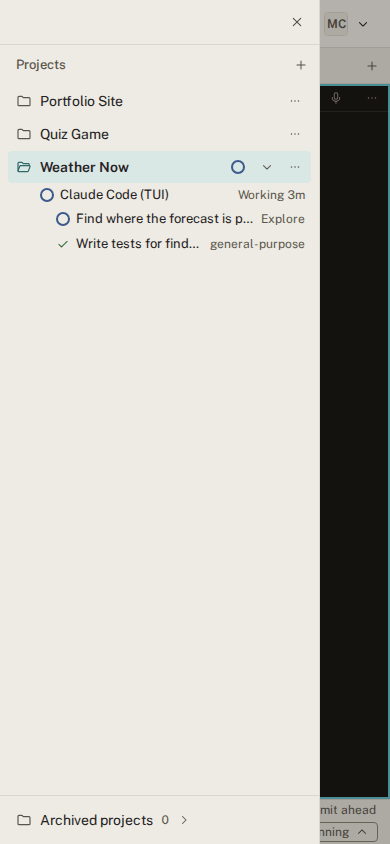
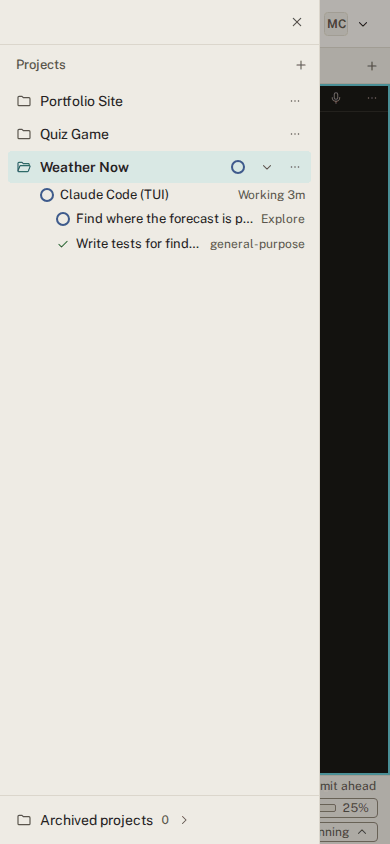
Seed realistic workspace figures and the Instructor role; lint the capture
Workspaces get real disk, memory and image figures, stopped workspaces
stay stopped, and the instructor has the Instructor role. Now that the
capture is no longer ignored, biome formats it and knip lists its entry
points and the convert binary.

Changed region(s): [[0.8, 0.8934, 1.0, 0.9858]]

diff --git a/e2e/doc-images/seed.ts b/e2e/doc-images/seed.ts
@@ -16,8 +16,8 @@ import {
 	FAKE_AGENT_TOKEN,
 	query,
 	seedFile,
-	seedListening,
 	seedGit,
+	seedListening,
 	type TestProject,
 	terminalIds,
 	workspacePath,
@@ -25,6 +25,7 @@ import {
 } from "../helpers";
 import { FAKE_AGENT_URL } from "../ports";
 
+const GIB = 1024 ** 3;
 const IMAGES = join(import.meta.dirname, "../../docs/images");
 const RAW = join(tmpdir(), "portikus-screenshots");
 mkdirSync(RAW, { recursive: true });
@@ -61,7 +62,8 @@ async function post(path: string, body: unknown): Promise<void> {
 		headers: { "content-type": "application/json" },
 		body: JSON.stringify(body),
 	});
-	if (!response.ok) throw new Error(`the fake agent refused ${path}: ${response.status}`);
+	if (!response.ok)
+		throw new Error(`the fake agent refused ${path}: ${response.status}`);
 }
 
 export interface Person {
@@ -75,7 +77,7 @@ export async function person(
 	name: string,
 	username: string,
 	options: {
-		role?: "student" | "administrator";
+		role?: "student" | "instructor" | "administrator";
 		context?: BrowserContext;
 		state?: string;
 	} = {},
@@ -90,7 +92,7 @@ export async function person(
 			name,
 			options.role ?? "student",
 			// A believable last sign-in, between one hour and two days ago.
-			60 + (username.length * 397) % 2800,
+			60 + ((username.length * 397) % 2800),
 		],
 	);
 	if (!user) throw new Error("could not create the user");
@@ -98,14 +100,15 @@ export async function person(
 	// Labels are unique, so the same person made again gets a number.
 	// Labels are unique: an earlier shot's workspace gives its label up.
 	const label = `ws-${username}`;
-	await query("update workspaces set label = 'ws-old-' || left(id::text, 8) where label = $1", [
-		label,
-	]);
+	await query(
+		"update workspaces set label = 'ws-old-' || left(id::text, 8) where label = $1",
+		[label],
+	);
 	await query(
 		`insert into workspaces
 		   (id, owner_user_id, label, incus_instance_name, state, desired_state,
 		    agent_address, agent_token)
-		 values ($1, $2, $3, $4, $5, 'running', '127.0.0.1', $6)`,
+		 values ($1, $2, $3, $4, $5, $7, '127.0.0.1', $6)`,
 		[
 			workspaceId,
 			user.id,
@@ -113,8 +116,29 @@ export async function person(
 			`ws-${workspaceId.replace(/-/g, "").slice(0, 24)}`,
 			options.state ?? "running",
 			`${FAKE_AGENT_TOKEN}:${workspaceId}`,
+			// A stopped workspace is meant to stay stopped; otherwise it reads as starting.
+			options.state === "stopped" ? "stopped" : "running",
 		],
 	);
+	// Figures a live site would show: a few GiB of a 25 GiB home, an image version.
+	const spread = (username.length * 7919) % 100;
+	await query("update workspaces set image_version = '2026.11.1' where id = $1", [
+		workspaceId,
+	]);
+	await post("/__test/storage", {
+		key: workspaceId,
+		home: { usedBytes: Math.round((2.5 + spread / 20) * GIB), totalBytes: 25 * GIB },
+		docker: { usedBytes: Math.round((0.8 + spread / 40) * GIB), totalBytes: 20 * GIB },
+		recovery: {
+			usedBytes: Math.round((0.2 + spread / 200) * GIB),
+			totalBytes: 3 * GIB,
+		},
+	});
+	await post("/__test/memory", {
+		key: workspaceId,
+		usedBytes: Math.round((0.9 + spread / 60) * GIB),
+		totalBytes: 4 * GIB,
+	});
 	if (options.context) await addSession(options.context, user.id);
 	await controllerChecked();
 	return { userId: user.id, workspaceId, label };
@@ -244,7 +268,7 @@ const INDEX_HTML = `<!doctype html>
 </html>
 `;
 
-export const CHECKS = {
+const CHECKS = {
 	checks: [
 		{ id: "tests", name: "Tests", command: "pytest -q" },
 		{ id: "lint", name: "Lint", command: "ruff check ." },
@@ -400,7 +424,11 @@ export async function course(
 export async function flaskRunning(workspaceId: string): Promise<void> {
 	const commandLine = "python3 -m flask --app app run --host 0.0.0.0";
 	await seedListening(workspaceId, [
-		{ port: 5000, addresses: ["0.0.0.0"], process: { pid: 4242, command: "python3", commandLine } },
+		{
+			port: 5000,
+			addresses: ["0.0.0.0"],
+			process: { pid: 4242, command: "python3", commandLine },
+		},
 	]);
 	await post("/__test/processes", {
 		key: workspaceId,
@@ -444,9 +472,11 @@ th,td{padding:.5rem 1.25rem;text-align:left;border-bottom:1px solid #e3eaf0}th{b
 
 /** Answer every preview-host request with the weather app's page. */
 export async function servePreview(page: Page): Promise<void> {
-	await page.context().route(/\.preview\.localhost/, (route) =>
-		route.fulfill({ status: 200, contentType: "text/html", body: WEATHER_PAGE }),
-	);
+	await page
+		.context()
+		.route(/\.preview\.localhost/, (route) =>
+			route.fulfill({ status: 200, contentType: "text/html", body: WEATHER_PAGE }),
+		);
 }
 
 /** Give a project a saved layout before it opens. */

diff --git a/e2e/doc-images/admin.capture.ts b/e2e/doc-images/admin.capture.ts
@@ -43,7 +43,9 @@ let courseId = "";
 /** Carol signs in through the mock provider; her name is made to fit the demo. */
 async function asAdmin(page: Page, path: string) {
 	await loginAs(page, "carol");
-	await query("update users set display_name = 'Carol Whitfield' where email = 'carol@example.edu'");
+	await query(
+		"update users set display_name = 'Carol Whitfield' where email = 'carol@example.edu'",
+	);
 	await controllerChecked();
 	await page.goto(path);
 }
@@ -53,7 +55,7 @@ test.beforeAll(async () => {
 	for (const [name, username, state] of CLASS) {
 		people.push(await person(name, username, { state }));
 	}
-	instructor = await person("Dr. Ivy Okafor", "okafor");
+	instructor = await person("Dr. Ivy Okafor", "okafor", { role: "instructor" });
 	courseId = await course(
 		"CS 1210: Programming for the Web",
 		instructor.userId,
@@ -80,7 +82,10 @@ test.beforeAll(async () => {
 test("users and the intro toggletip", async ({ page }) => {
 	await asAdmin(page, "/admin");
 	await expect(page.getByTestId("admin-accounts")).toBeVisible({ timeout: 15_000 });
-	await page.getByRole("button", { name: /^About Image/ }).first().click();
+	await page
+		.getByRole("button", { name: /^About Image/ })
+		.first()
+		.click();
 	await expect(page.locator(".pk-toggletip-content[data-state='open']")).toBeVisible();
 	await shoot(page, "admin-intro-toggletip.png", {
 		clip: { x: 0, y: 40, width: 1000, height: 300 },
@@ -120,7 +125,10 @@ test("health", async ({ page }) => {
 						observedAt: new Date().toISOString(),
 						loadAverage: [0.6 + busy * 2, 0.5 + busy * 1.8, 0.4 + busy],
 						cpuCount: 8,
-						memory: { usedBytes: Math.round((9 + busy * 12) * GIB), totalBytes: 32 * GIB },
+						memory: {
+							usedBytes: Math.round((9 + busy * 12) * GIB),
+							totalBytes: 32 * GIB,
+						},
 						pool: {
 							name: "portikus",
 							usedBytes: Math.round((182 + hour * 0.6) * GIB),
@@ -170,11 +178,25 @@ test("audit", async ({ page }) => {
 	];
 	const rows: [string, string, string, string, object, number][] = [
 		[maya.userId, maya.workspaceId, "auth.login", "success", {}, 3],
-		["worker", diego.workspaceId, "workspace.cpu_throttled", "success", { averagePercent: 96 }, 12],
+		[
+			"worker",
+			diego.workspaceId,
+			"workspace.cpu_throttled",
+			"success",
+			{ averagePercent: 96 },
+			12,
+		],
 		[amara.userId, amara.workspaceId, "workspace.start_requested", "success", {}, 25],
 		["worker", lukas.workspaceId, "workspace.idle_stopped", "success", {}, 47],
 		[priya.userId, priya.workspaceId, "auth.login", "success", {}, 63],
-		["worker", lukas.workspaceId, "workspace.start_failed", "failed", { errorCode: "TIMEOUT" }, 95],
+		[
+			"worker",
+			lukas.workspaceId,
+			"workspace.start_failed",
+			"failed",
+			{ errorCode: "TIMEOUT" },
+			95,
+		],
 		[diego.userId, diego.workspaceId, "auth.login", "success", {}, 130],
 		[maya.userId, maya.workspaceId, "workspace.stop_requested", "success", {}, 180],
 	];
@@ -225,7 +247,8 @@ test("backups", async ({ page }) => {
 		at.setUTCHours(7, 30, 0, 0);
 		return at;
 	};
-	const stamp = (at: Date) => at.toISOString().replace(/[-:]/g, "").replace(/\.\d+/, "");
+	const stamp = (at: Date) =>
+		at.toISOString().replace(/[-:]/g, "").replace(/\.\d+/, "");
 	const last = day(0);
 	hostReport(
 		hostStatus({
@@ -237,7 +260,9 @@ test("backups", async ({ page }) => {
 			},
 			nextRunAt: day(-1).toISOString(),
 			sets: [0, 1, 2, 3, 4, 5, 6].map((back) =>
-				backupSet(stamp(day(back)), instances, { sizeBytes: Math.round((38 - back * 0.7) * GIB) }),
+				backupSet(stamp(day(back)), instances, {
+					sizeBytes: Math.round((38 - back * 0.7) * GIB),
+				}),
 			),
 		}),
 	);

diff --git a/e2e/doc-images/student.capture.ts b/e2e/doc-images/student.capture.ts
@@ -5,21 +5,21 @@
 import { expect, type Page, test, type WebSocketRoute } from "@playwright/test";
 import { query, setWorkspaceState } from "../helpers";
 import {
+	course,
 	flaskRunning,
 	inHours,
-	saveLayout,
-	servePreview,
 	launch,
 	minutesAgo,
 	openProject,
 	otherProjects,
 	person,
 	printTo,
+	saveLayout,
+	servePreview,
 	setAgentTabs,
 	setPlans,
 	shoot,
 	weatherProject,
-	course,
 } from "./seed";
 
 const PROMPT = "student@ws-maya:~/projects/weather-now$";
@@ -71,7 +71,13 @@ async function agents(workspaceId: string, ids: { tui: string; chat?: string }) 
 			],
 		},
 		...(ids.chat
-			? [{ terminalId: ids.chat, agent: "claude" as const, state: "needs-input" as const }]
+			? [
+					{
+						terminalId: ids.chat,
+						agent: "claude" as const,
+						state: "needs-input" as const,
+					},
+				]
 			: []),
 	]);
 	await setPlans(workspaceId, [
@@ -260,7 +266,8 @@ test("chat composer and shell command", async ({ page }) => {
 		send("shell", {
 			id: "sh2",
 			command: "python -m pytest -q tests",
-			output: "..........                                   [100%]\n10 passed in 0.41s\n",
+			output:
+				"..........                                   [100%]\n10 passed in 0.41s\n",
 			exitCode: 0,
 			truncated: false,
 			state: "done",
@@ -276,7 +283,11 @@ test("chat composer and shell command", async ({ page }) => {
 				},
 				{ name: "clear", description: "Start a new conversation", terminalOnly: false },
 				{ name: "review", description: "Review a pull request", terminalOnly: false },
-				{ name: "init", description: "Write a CLAUDE.md for this project", terminalOnly: false },
+				{
+					name: "init",
+					description: "Write a CLAUDE.md for this project",
+					terminalOnly: false,
+				},
 				{ name: "model", description: "Choose the model", terminalOnly: true },
 			],
 		});
@@ -289,7 +300,9 @@ test("chat composer and shell command", async ({ page }) => {
 	await shoot(page, "student-chat-composer.png");
 });
 
-const APP_TAB = { tabs: [{ id: "file:app.py", root: { type: "file", path: "app.py" } }] };
+const APP_TAB = {
+	tabs: [{ id: "file:app.py", root: { type: "file", path: "app.py" } }],
+};
 
 test("checks", async ({ page }) => {
 	const { maya, project } = await workspace(page);
@@ -367,7 +380,8 @@ async function realisticCodeHelp(page: Page) {
 		route.onMessage((data) => {
 			try {
 				const message = JSON.parse(String(data));
-				if (message.id !== undefined && message.method) asked.set(message.id, message.method);
+				if (message.id !== undefined && message.method)
+					asked.set(message.id, message.method);
 			} catch {}
 			server.send(data);
 		});
@@ -435,10 +449,7 @@ test("editor and code help", async ({ page }) => {
 	await shoot(page, "student-editor.png");
 
 	await page.getByTestId("right-pane-tab-problems").click();
-	await editor
-		.locator(".view-line span span", { hasText: "find_city" })
-		.last()
-		.hover();
+	await editor.locator(".view-line span span", { hasText: "find_city" }).last().hover();
 	await expect(page.locator(".monaco-hover:not(.hidden)").first()).toContainText(
 		"latitude and longitude",
 	);
@@ -447,7 +458,7 @@ test("editor and code help", async ({ page }) => {
 
 test("live help, student side", async ({ page }) => {
 	const { maya, project } = await workspace(page);
-	const ivy = await person("Dr. Ivy Okafor", "okafor", { role: "student" });
+	const ivy = await person("Dr. Ivy Okafor", "okafor", { role: "instructor" });
 	await course("CS 1210: Programming for the Web", ivy.userId, [maya.userId]);
 	await openProject(page, maya.workspaceId, project.id);
 	const shell = await launch(page, maya.workspaceId, project.id, "terminal");
